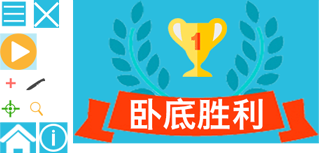
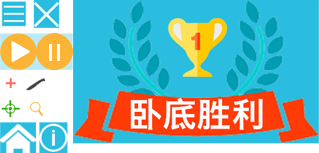
3.0

Changed region(s): [[0.1129, 0.2092, 0.2539, 0.4706]]

diff --git a/111.html b/111.html
@@ -1,0 +1,49 @@
+<!DOCTYPE html>
+<html>
+<head>
+<style>
+    
+    .audio_div{
+        width: 100px;
+        height: 100px;
+        background-color:red; 
+    }
+</style>
+
+</head>
+<body>
+<!-- Latest compiled and minified CSS -->
+<script
+  src="https://code.jquery.com/jquery-1.12.4.js"
+  integrity="sha256-Qw82+bXyGq6MydymqBxNPYTaUXXq7c8v3CwiYwLLNXU="
+  crossorigin="anonymous"></script>
+<script src="https://maxcdn.bootstrapcdn.com/bootstrap/3.3.7/js/bootstrap.min.js" integrity="sha384-Tc5IQib027qvyjSMfHjOMaLkfuWVxZxUPnCJA7l2mCWNIpG9mGCD8wGNIcPD7Txa" crossorigin="anonymous"></script>
+
+<div class="audio_div" style="background:url(images/1.png); background-size:cover;">
+        <audio id="mp3Btn" autoplay loop>
+        <source src="music/2.mp3" type="audio/mpeg" />
+        </audio>
+ </div>
+<script>
+    //播放器控制
+    var audio = document.getElementById('mp3Btn');
+    $('.audio_div').click(function(){
+        //防止冒泡
+        event.stopPropagation();
+        if(audio.paused) //如果当前是暂停状态
+        {
+            $('.audio_div').css("background","url(images/1.png) no-repeat center bottom");
+            $('.audio_div').css("background-position","-25px 0");
+            $('.audio_div').css("background-size","cover");
+            audio.play();//播放
+            return;
+        }
+        
+        //当前是播放状态
+        $('.audio_div').css("background","url(images/2.png) no-repeat center bottom");
+        $('.audio_div').css("background-size","cover");
+        audio.pause(); //暂停
+    });
+</script>
+</body>
+</html>

diff --git a/M7A.html b/M7A.html
@@ -18,7 +18,7 @@
 	</div>
 	<div class="box3a">
 		发言讨论结束，大家请投票
-		<button class="icon3a" onclick="playPause()"></button>
+		<div class="icon3a"></div>
 	</div>
 	<div class="box4a">
 		点击得票数最多人的头像
@@ -210,14 +210,30 @@
   crossorigin="anonymous"></script>
 <script src="https://maxcdn.bootstrapcdn.com/bootstrap/3.3.7/js/bootstrap.min.js" integrity="sha384-Tc5IQib027qvyjSMfHjOMaLkfuWVxZxUPnCJA7l2mCWNIpG9mGCD8wGNIcPD7Txa" crossorigin="anonymous"></script>
 	
-<script>var myAudio = document.getElementById('audio1');
-    function playPause(){
-        if(myAudio.paused){
-            myAudio.play();
-        }else{
-            myAudio.pause();
+
+<script>
+    //播放器控制
+    var audio = document.getElementById('audio1');
+    $('.icon3a').click(function(){
+        //防止冒泡
+        if(audio.paused) //如果当前是暂停状态
+        {
+            $('.icon3a').css("background","url(images/p1.png)");
+            $('.icon3a').css("background-position","-27px -24px");
+            $('.icon3a').css("background-size","240px");
+            audio.play();//播放
+            return;
         }
-    }
+        
+        //当前是播放状态
+        	$('.icon3a').css("background","url(images/p1.png)");
+            $('.icon3a').css("background-position","0 -24px");
+            $('.icon3a').css("background-size","240px");
+        audio.pause(); //暂停
+
+
+    });
 </script>
+
 </body>
 </html>

diff --git a/M7Astyle.css b/M7Astyle.css
@@ -12,7 +12,7 @@ body{
 	z-index: 1032;
 }
 .box2a{
-	margin: 40px 0 0 0;
+	margin: 20px 0 0 0;
 	height: 30px;
 	text-align: center;
 	font-size: 1rem;
@@ -22,7 +22,7 @@ body{
 .icon1a{
 	position: absolute;
 	left: 10px;
-	top: 40px;
+	top: 20px;
 	width: 25px;
 	height: 25px;
 	background-size: 250px;
@@ -32,7 +32,7 @@ body{
 .icon2a{
 	position: absolute;
 	right: 10px;
-	top: 40px;
+	top: 20px;
 	width: 25px;
 	height: 25px;
 	background-size: 250px;
@@ -51,14 +51,15 @@ body{
 .icon3a{
 	position: absolute;
 	right: 8px;
-	top: 75px;
-	width: 29px;
+	top: 55px;
+	width: 28px;
 	height: 29px;
 	background-size: 240px;
 	border-style: none;
 	background-color: #b9e9f5;
 	background-image: url(images/p1.png);
-	background-position: 0 -24px;
+	background-position: -27px -24px;
+	cursor: pointer;
 }
 .box4a{
 	height: 40px;
@@ -155,4 +156,7 @@ body{
 	height: 50px;
 	background-color: #fbb435;
 	border-style: none;
+}
+.icon3a:checked{
+	border: 3px solid black;
 }

diff --git a/M7Bstyle.css b/M7Bstyle.css
@@ -8,9 +8,9 @@ body{
 	position: fixed;
 	top: 0;
 	width: 100%;
-	height: 70px;
+	height: 50px;
 	text-align: center;
-	line-height: 100px;
+	line-height: 60px;
 	background-color: #29bde0;
 	font-size: .2rem;
 	color: #fff;
@@ -18,7 +18,7 @@ body{
 }
 .icon-home1b{
 	position: absolute;
-	top: 35px;
+	top: 15px;
 	left: 10px;
 	width: 28px;
 	height: 24px;
@@ -31,7 +31,7 @@ body{
 }
 .icon-info1b{
 	position: absolute;
-	top: 36px;
+	top: 16px;
 	right: 10px;
 	width: 23px;
 	height: 25px;
@@ -43,11 +43,11 @@ body{
 	border-style: none;
 }
 .victory1b{
-	width: 195px;
+	width: 192px;
 	height: 120px;
 	margin: 85px auto 0px auto;
 	background-image: url(images/p1.png);
-	background-position: -55px 0px;
+	background-position: -58px 0px;
 	background-size: 250px;
 	background-color: #29bde0;
 }

diff --git a/M7style.css b/M7style.css
@@ -8,12 +8,12 @@ body{
 	position: fixed;
 	top: 0;
 	width: 100%;
-	height: 65px;
+	height: 45px;
 	background-color: #29bde0;
 }
 .b1{
 	position: fixed;
-	top: 25px;
+	top: 5px;
 	font-size: 1.2rem;
 	background-color: #29bde0;
 	color: white;
